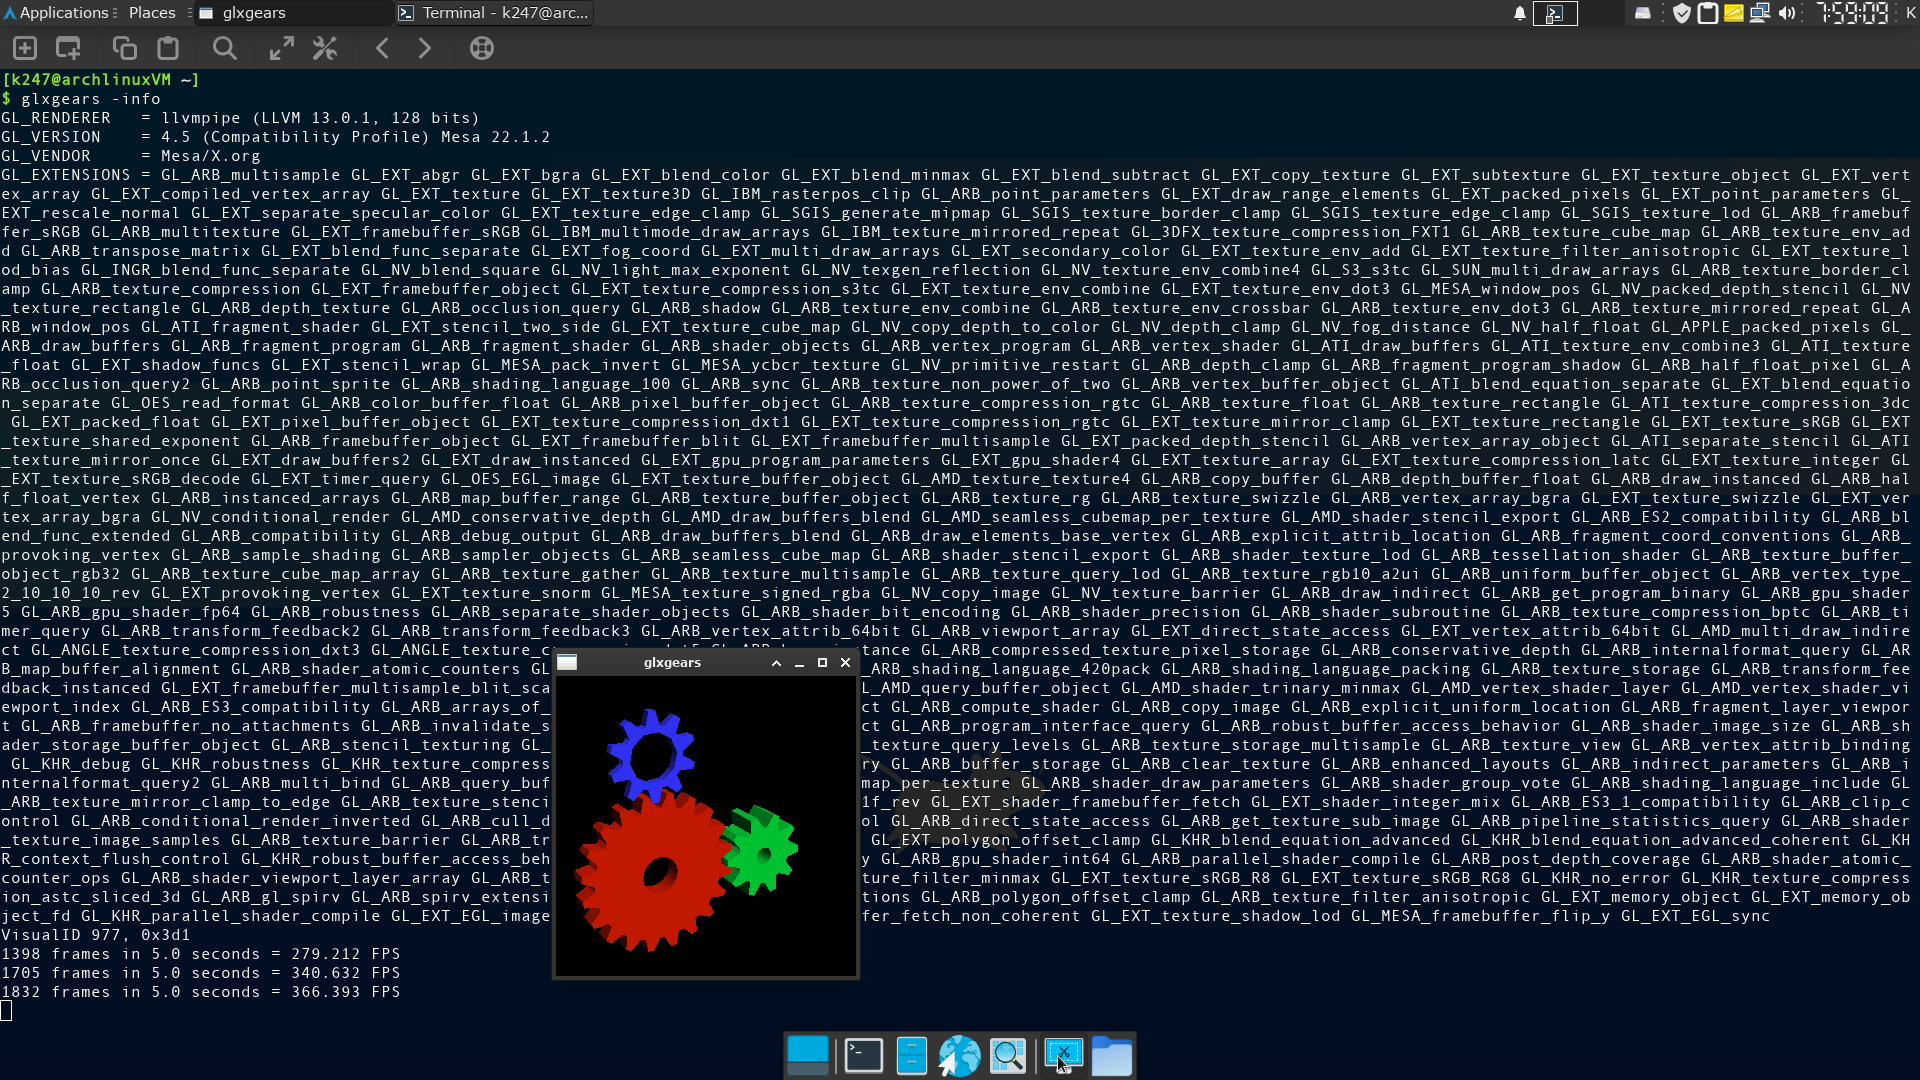
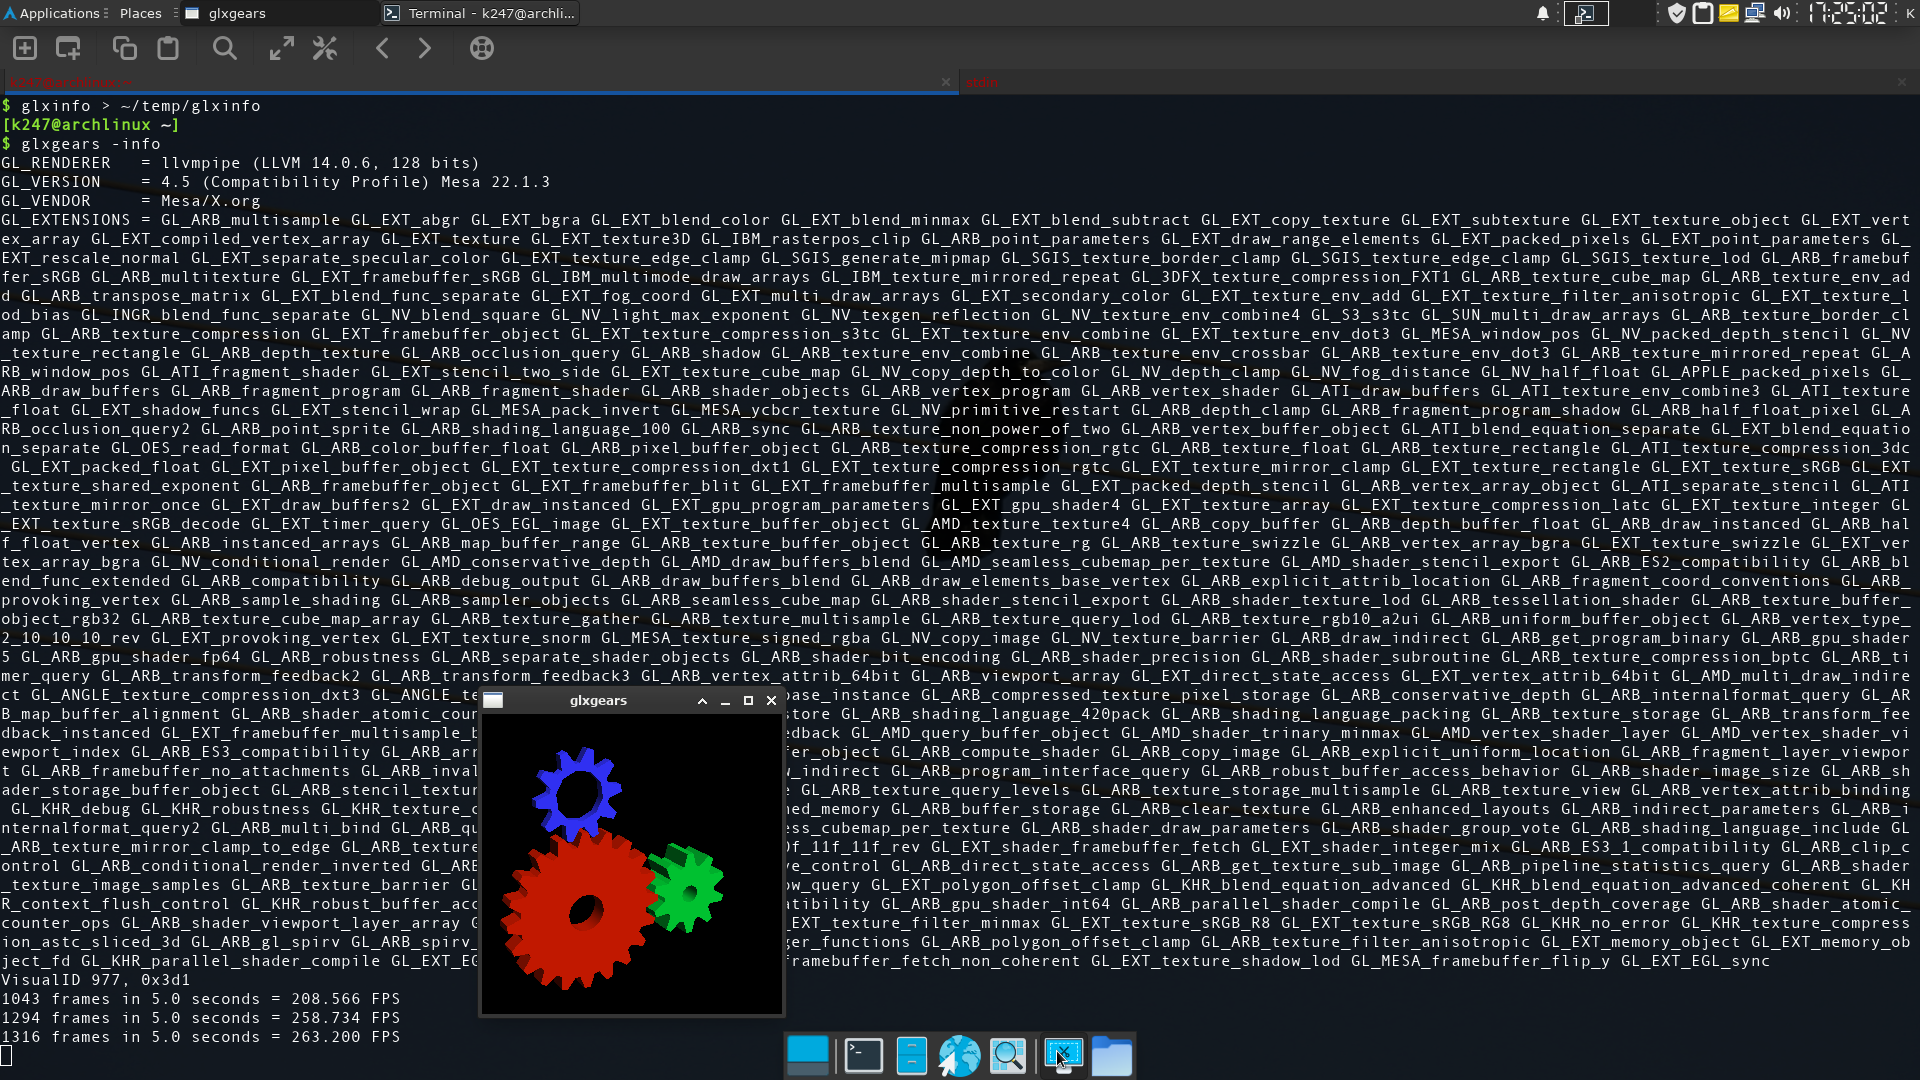
update doc

diff --git a/xorgxrdp-nvidia/README.md b/xorgxrdp-nvidia/README.md
@@ -86,7 +86,13 @@ from about XFCE application,
 
 <p align="left"><img src="images/xfceAbout.png" alt="xfce About" width="auto" /></p>
 
-GPU is listed as.. llvmpipe (LLVM 13.0.1, 128 bits) (1.9 GiB)
+GPU is listed as.. llvmpipe (LLVM 14.0.6, 128 bits) (1.9 GiB)
+
+install `glxinfo` from `mesa-utils` & `mesa-demos`..
+
+```console
+$ sudo pacman -S mesa-demos mesa-utils
+```
 
 Check to see if Direct rendering is enabled and working
 
@@ -117,18 +123,18 @@ $ sudo glxinfo | grep OpenGL
 
 ```
 OpenGL vendor string: Mesa/X.org
-OpenGL renderer string: llvmpipe (LLVM 13.0.1, 128 bits)
-OpenGL core profile version string: 4.5 (Core Profile) Mesa 22.1.2
+OpenGL renderer string: llvmpipe (LLVM 14.0.6, 128 bits)
+OpenGL core profile version string: 4.5 (Core Profile) Mesa 22.1.3
 OpenGL core profile shading language version string: 4.50
 OpenGL core profile context flags: (none)
 OpenGL core profile profile mask: core profile
 OpenGL core profile extensions:
-OpenGL version string: 4.5 (Compatibility Profile) Mesa 22.1.2
+OpenGL version string: 4.5 (Compatibility Profile) Mesa 22.1.3
 OpenGL shading language version string: 4.50
 OpenGL context flags: (none)
 OpenGL profile mask: compatibility profile
 OpenGL extensions:
-OpenGL ES profile version string: OpenGL ES 3.2 Mesa 22.1.2
+OpenGL ES profile version string: OpenGL ES 3.2 Mesa 22.1.3
 OpenGL ES profile shading language version string: OpenGL ES GLSL ES 3.20
 OpenGL ES profile extensions:
 ```
@@ -145,8 +151,8 @@ display: :10  screen: 0
 direct rendering: Yes
 Extended renderer info (GLX_MESA_query_renderer):
     Vendor: Mesa/X.org (0xffffffff)
-    Device: llvmpipe (LLVM 13.0.1, 128 bits) (0xffffffff)
-    Version: 22.1.2
+    Device: llvmpipe (LLVM 14.0.6, 128 bits) (0xffffffff)
+    Version: 22.1.3
     Accelerated: no
     Video memory: 1910MB
     Unified memory: no
@@ -156,18 +162,18 @@ Extended renderer info (GLX_MESA_query_renderer):
     Max GLES1 profile version: 1.1
     Max GLES[23] profile version: 3.2
 OpenGL vendor string: Mesa/X.org
-OpenGL renderer string: llvmpipe (LLVM 13.0.1, 128 bits)
-OpenGL core profile version string: 4.5 (Core Profile) Mesa 22.1.2
+OpenGL renderer string: llvmpipe (LLVM 14.0.6, 128 bits)
+OpenGL core profile version string: 4.5 (Core Profile) Mesa 22.1.3
 OpenGL core profile shading language version string: 4.50
 OpenGL core profile context flags: (none)
 OpenGL core profile profile mask: core profile
 
-OpenGL version string: 4.5 (Compatibility Profile) Mesa 22.1.2
+OpenGL version string: 4.5 (Compatibility Profile) Mesa 22.1.3
 OpenGL shading language version string: 4.50
 OpenGL context flags: (none)
 OpenGL profile mask: compatibility profile
 
-OpenGL ES profile version string: OpenGL ES 3.2 Mesa 22.1.2
+OpenGL ES profile version string: OpenGL ES 3.2 Mesa 22.1.3
 OpenGL ES profile shading language version string: OpenGL ES GLSL ES 3.20
 ```
 
@@ -189,10 +195,10 @@ $ uname -a && lsmod | grep hv
 ```
 
 ```
-Linux archlinuxVM 5.18.9-arch1-1 #1 SMP PREEMPT_DYNAMIC Sat, 02 Jul 2022 21:03:06 +0000 x86_64 GNU/Linux
+Linux archlinux 5.18.11-arch1-1 #1 SMP PREEMPT_DYNAMIC Tue, 12 Jul 2022 15:40:51 +0000 x86_64 GNU/Linux
 hv_netvsc             102400  0
-hv_balloon             45056  0
 hv_utils               57344  3
+hv_balloon             45056  0
 hv_sock                20480  1
 vsock                  53248  5 hv_sock
 hv_storvsc             28672  2
@@ -208,7 +214,7 @@ $ modinfo hyperv_drm
 ```
 
 ```
-filename:       /lib/modules/5.18.9-arch1-1/kernel/drivers/gpu/drm/hyperv/hyperv_drm.ko.zst
+filename:       /lib/modules/5.18.11-arch1-1/kernel/drivers/gpu/drm/hyperv/hyperv_drm.ko.zst
 description:    DRM driver for Hyper-V synthetic video device
 author:         Deepak Rawat <drawat.floss@gmail.com>
 license:        GPL
@@ -219,17 +225,17 @@ depends:        hv_vmbus
 retpoline:      Y
 intree:         Y
 name:           hyperv_drm
-vermagic:       5.18.9-arch1-1 SMP preempt mod_unload 
+vermagic:       5.18.11-arch1-1 SMP preempt mod_unload 
 sig_id:         PKCS#7
 signer:         Build time autogenerated kernel key
-sig_key:        0D:3A:46:34:24:2C:16:49:13:DF:31:72:B3:D2:A7:CF:53:2E:37:E8
+sig_key:        10:A4:48:0A:2E:13:58:1E:51:4F:FC:61:F8:82:A7:DD:2C:BA:57:0A
 sig_hashalgo:   sha512
-signature:      30:64:02:30:6E:45:57:1A:26:60:D7:8E:63:16:07:D4:6D:D6:E5:93:
-		1D:41:CC:D5:27:3D:8D:C5:E8:50:EB:71:AC:9F:1B:22:B8:63:7D:50:
-		41:BF:A9:52:74:13:A2:F7:60:E4:9A:B2:02:30:1D:6C:4A:55:47:09:
-		73:5E:F5:EB:D6:2E:96:16:84:28:57:E6:06:D4:59:C9:CE:47:54:B7:
-		82:7F:8D:2C:5C:02:AB:D2:3F:89:62:D1:AF:9C:F9:1F:BD:C2:C2:FE:
-		80:43
+signature:      30:64:02:30:60:8E:38:F8:DF:8A:AA:F7:E6:98:CE:72:8C:D2:B7:95:
+		76:2B:0C:4F:F2:AB:3F:7B:82:08:5F:27:F1:6E:2A:E5:15:B9:B7:4D:
+		CD:7E:98:52:D3:48:F4:D8:AD:7F:6C:4C:02:30:0A:40:3D:A8:C5:73:
+		C1:B5:4A:E2:71:7B:04:A8:BC:1D:E7:A4:B6:08:E9:0F:FF:21:57:E6:
+		48:78:DB:F4:4B:02:BD:D7:C9:FB:C0:A9:E4:21:C9:F1:41:F1:CD:4E:
+		44:62
 ```
 
 To list the options that are set for `hyperv_drm` loaded module:
@@ -271,8 +277,8 @@ $ modprobe --show-depends hyperv_drm
 ```
 
 ```
-insmod /lib/modules/5.18.9-arch1-1/kernel/drivers/hv/hv_vmbus.ko.zst 
-insmod /lib/modules/5.18.9-arch1-1/kernel/drivers/gpu/drm/hyperv/hyperv_drm.ko.zst
+insmod /lib/modules/5.18.11-arch1-1/kernel/drivers/hv/hv_vmbus.ko.zst 
+insmod /lib/modules/5.18.11-arch1-1/kernel/drivers/gpu/drm/hyperv/hyperv_drm.ko.zst
 ```
 
 List all loaded `drm` Drivers in Kernel,
@@ -282,15 +288,15 @@ $ sudo dmesg | grep drm
 ```
 
 ```
-[    0.277563] ACPI: bus type drm_connector registered
-[    2.928498] systemd[1]: Starting Load Kernel Module drm...
-[    2.982822] systemd[1]: modprobe@drm.service: Deactivated successfully.
-[    2.983678] systemd[1]: Finished Load Kernel Module drm.
-[    3.751008] hv_vmbus: registering driver hyperv_drm
-[    3.751844] hyperv_drm 5620e0c7-8062-4dce-aeb7-520c7ef76171: [drm] Synthvid Version major 3, minor 5
-[    3.751942] fb0: switching to hyperv_drm from EFI VGA
-[    3.754706] [drm] Initialized hyperv_drm 1.0.0 2020 for 5620e0c7-8062-4dce-aeb7-520c7ef76171 on minor 0
-[    3.774471] hyperv_drm 5620e0c7-8062-4dce-aeb7-520c7ef76171: [drm] fb0: hyperv_drmdrmfb frame buffer device
+[    0.249037] ACPI: bus type drm_connector registered
+[    2.892309] systemd[1]: Starting Load Kernel Module drm...
+[    2.934977] systemd[1]: modprobe@drm.service: Deactivated successfully.
+[    2.935168] systemd[1]: Finished Load Kernel Module drm.
+[    3.516137] hv_vmbus: registering driver hyperv_drm
+[    3.516841] hyperv_drm 5620e0c7-8062-4dce-aeb7-520c7ef76171: [drm] Synthvid Version major 3, minor 5
+[    3.516957] fb0: switching to hyperv_drm from EFI VGA
+[    3.520577] [drm] Initialized hyperv_drm 1.0.0 2020 for 5620e0c7-8062-4dce-aeb7-520c7ef76171 on minor 0
+[    3.542875] hyperv_drm 5620e0c7-8062-4dce-aeb7-520c7ef76171: [drm] fb0: hyperv_drmdrmfb frame buffer device
 ```
 
 <br>from https://wiki.archlinux.org/title/General_recommendations
@@ -324,9 +330,9 @@ $ ll /dev/dri/
 
 ```
 total 0
-drwxr-xr-x   2 root root      60 Jul  5 02:48 ./
-drwxr-xr-x  19 root root    3.7K Jul  5 02:48 ../
-crw-rw----+  1 root video 226, 0 Jul  5 02:48 card0
+drwxr-xr-x   2 root root      60 Jul 15 15:08 ./
+drwxr-xr-x  19 root root    3.7K Jul 15 15:08 ../
+crw-rw----+  1 root video 226, 0 Jul 15 15:08 card0
 ```
 
 <b>List the attributes of a device</b><br>
@@ -358,11 +364,11 @@ and the attributes from one single parent device.
     DRIVERS=="hyperv_drm"
     ATTRS{channel_vp_mapping}=="4:0"
     ATTRS{channels/4/cpu}=="0"
-    ATTRS{channels/4/events}=="7327"
+    ATTRS{channels/4/events}=="64"
     ATTRS{channels/4/in_mask}=="0"
-    ATTRS{channels/4/interrupts}=="9"
+    ATTRS{channels/4/interrupts}=="5"
     ATTRS{channels/4/intr_in_full}=="0"
-    ATTRS{channels/4/intr_out_empty}=="7327"
+    ATTRS{channels/4/intr_out_empty}=="64"
     ATTRS{channels/4/out_full_first}=="0"
     ATTRS{channels/4/out_full_total}=="0"
     ATTRS{channels/4/out_mask}=="0"
@@ -376,15 +382,15 @@ and the attributes from one single parent device.
     ATTRS{id}=="4"
     ATTRS{in_intr_mask}=="0"
     ATTRS{in_read_bytes_avail}=="0"
-    ATTRS{in_read_index}=="1168"
+    ATTRS{in_read_index}=="720"
     ATTRS{in_write_bytes_avail}=="258048"
-    ATTRS{in_write_index}=="1168"
+    ATTRS{in_write_index}=="720"
     ATTRS{numa_node}=="0"
     ATTRS{out_intr_mask}=="0"
     ATTRS{out_read_bytes_avail}=="0"
-    ATTRS{out_read_index}=="213520"
+    ATTRS{out_read_index}=="6040"
     ATTRS{out_write_bytes_avail}=="258048"
-    ATTRS{out_write_index}=="213520"
+    ATTRS{out_write_index}=="6040"
     ATTRS{power/control}=="auto"
     ATTRS{power/runtime_active_time}=="0"
     ATTRS{power/runtime_status}=="unsupported"
@@ -448,11 +454,11 @@ $ ll /sys/class/drm/
 
 ```
 total 0
-drwxr-xr-x  2 root root    0 Jul  5 02:48 ./
-drwxr-xr-x 62 root root    0 Jul  5 02:48 ../
-lrwxrwxrwx  1 root root    0 Jul  5 02:48 card0 -> ../../devices/LNXSYSTM:00/LNXSYBUS:00/ACPI0004:00/VMBUS:00/5620e0c7-8062-4dce-aeb7-520c7ef76171/drm/card0/
-lrwxrwxrwx  1 root root    0 Jul  5 02:48 card0-Virtual-1 -> ../../devices/LNXSYSTM:00/LNXSYBUS:00/ACPI0004:00/VMBUS:00/5620e0c7-8062-4dce-aeb7-520c7ef76171/drm/card0/card0-Virtual-1/
--r--r--r--  1 root root 4.0K Jul  5 05:37 version
+drwxr-xr-x  2 root root    0 Jul 15 15:08 ./
+drwxr-xr-x 62 root root    0 Jul 15 15:08 ../
+lrwxrwxrwx  1 root root    0 Jul 15 15:08 card0 -> ../../devices/LNXSYSTM:00/LNXSYBUS:00/ACPI0004:00/VMBUS:00/5620e0c7-8062-4dce-aeb7-520c7ef76171/drm/card0/
+lrwxrwxrwx  1 root root    0 Jul 15 15:08 card0-Virtual-1 -> ../../devices/LNXSYSTM:00/LNXSYBUS:00/ACPI0004:00/VMBUS:00/5620e0c7-8062-4dce-aeb7-520c7ef76171/drm/card0/card0-Virtual-1/
+-r--r--r--  1 root root 4.0K Jul 15 17:40 version
 ```
 
 How to Tell the Display Device Name
@@ -472,8 +478,9 @@ $ pacman -Q | grep mesa
 ```
 
 ```
-libva-mesa-driver 22.1.2-1
-mesa 22.1.2-1
+libva-mesa-driver 22.1.3-1
+mesa 22.1.3-1
+mesa-demos 8.5.0-2
 mesa-utils 8.5.0-2
 ```
 
@@ -499,6 +506,44 @@ intel-media-driver 22.4.4-1
 libva-intel-driver 2.4.1-2
 vulkan-intel 22.1.3-1
 ```
+
+### xrandr
+https://wiki.archlinux.org/title/xrandr
+
+> is an official configuration utility to the RandR (Resize and Rotate) X Window System extension. It can be used to set the size, orientation or reflection of the outputs for a screen.
+
+Testing configuration
+
+> When run without any option, xrandr shows the names of different outputs available on the system (VGA-1, HDMI-1, etc.) and resolutions available on each, with a * after the current one and a + after the preferred one
+
+```console
+$ xrandr
+```
+
+```
+Screen 0: minimum 256 x 256, current 1920 x 1080, maximum 16384 x 16384
+rdp0 connected 1920x1080+0+0 0mm x 0mm
+   1920x1080     50.00*
+```
+
+Note: refresh rates for `1920x1080`..  `50.00*` but should be 60Hz..
+
+Adding undetected resolutions
+
+> Due to buggy hardware or drivers, your monitor's correct resolutions may not always be detected by xrandr. For example, the EDID data block queried from the monitor may be incorrect. To fix this at a low level, see Kernel mode setting#Forcing modes and EDID. This section will describe how to address this at a higher level by adding the desired resolutions to xrandr. This same procedure can be used to add refresh rates you know are supported, but not enabled by your driver
+
+> First we run gtf or cvt to get the Modeline for the resolution we want:
+
+```console
+$ cvt 1920 1080
+```
+
+```
+# 1920x1080 59.96 Hz (CVT 2.07M9) hsync: 67.16 kHz; pclk: 173.00 MHz
+Modeline "1920x1080_60.00"  173.00  1920 2048 2248 2576  1080 1083 1088 1120 -hsync +vsync
+```
+
+
 
 <br>
 
